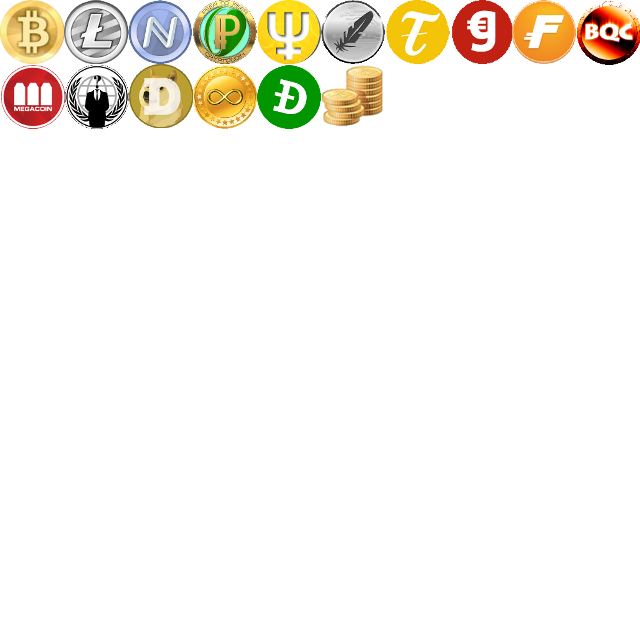
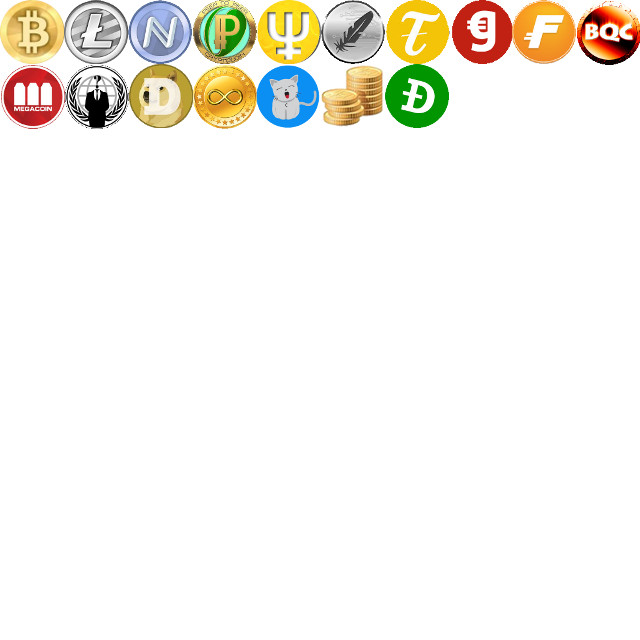
modified:   images/altcoin_64.png 	modified:   tothemoon.js

Changed region(s): [[0.5938, 0.0938, 0.7188, 0.2188], [0.375, 0.0938, 0.5, 0.2188]]

diff --git a/tothemoon.js b/tothemoon.js
@@ -259,12 +259,12 @@
 	//--------
 	function getenemysrcx( type ) {
 
-		return [4,3,1,0, 9,8,7,6,5,5, 4,3,2,1,0,0][type];
+		return [4,3,1,0, 9,8,7,6,5,5, 4,3,2,1,0,0, 6][type];
 	}
 
 	function getenemysrcy( type ) {
 
-		return [1,1,1,1, 0,0,0,0,0,1, 0,0,0,0,0,0][type];
+		return [1,1,1,1, 0,0,0,0,0,1, 0,0,0,0,0,0, 1][type];
 	}
 
 	
